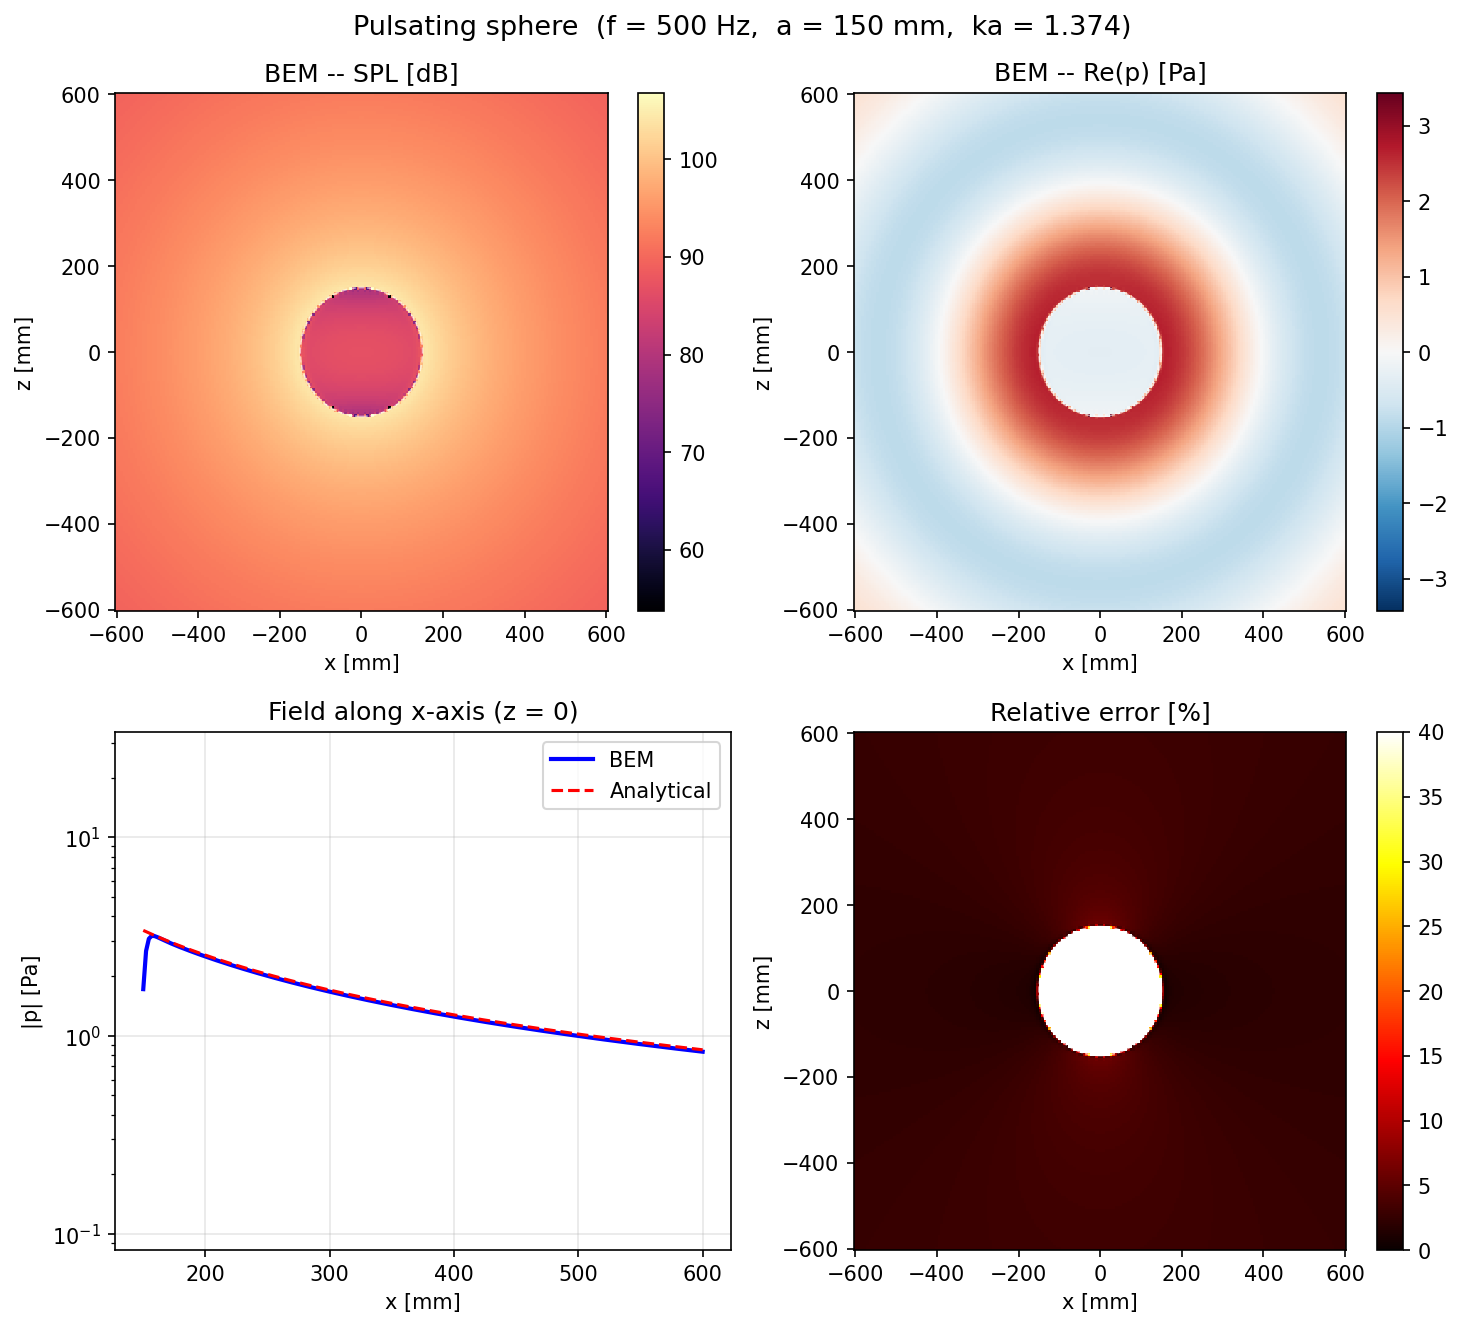
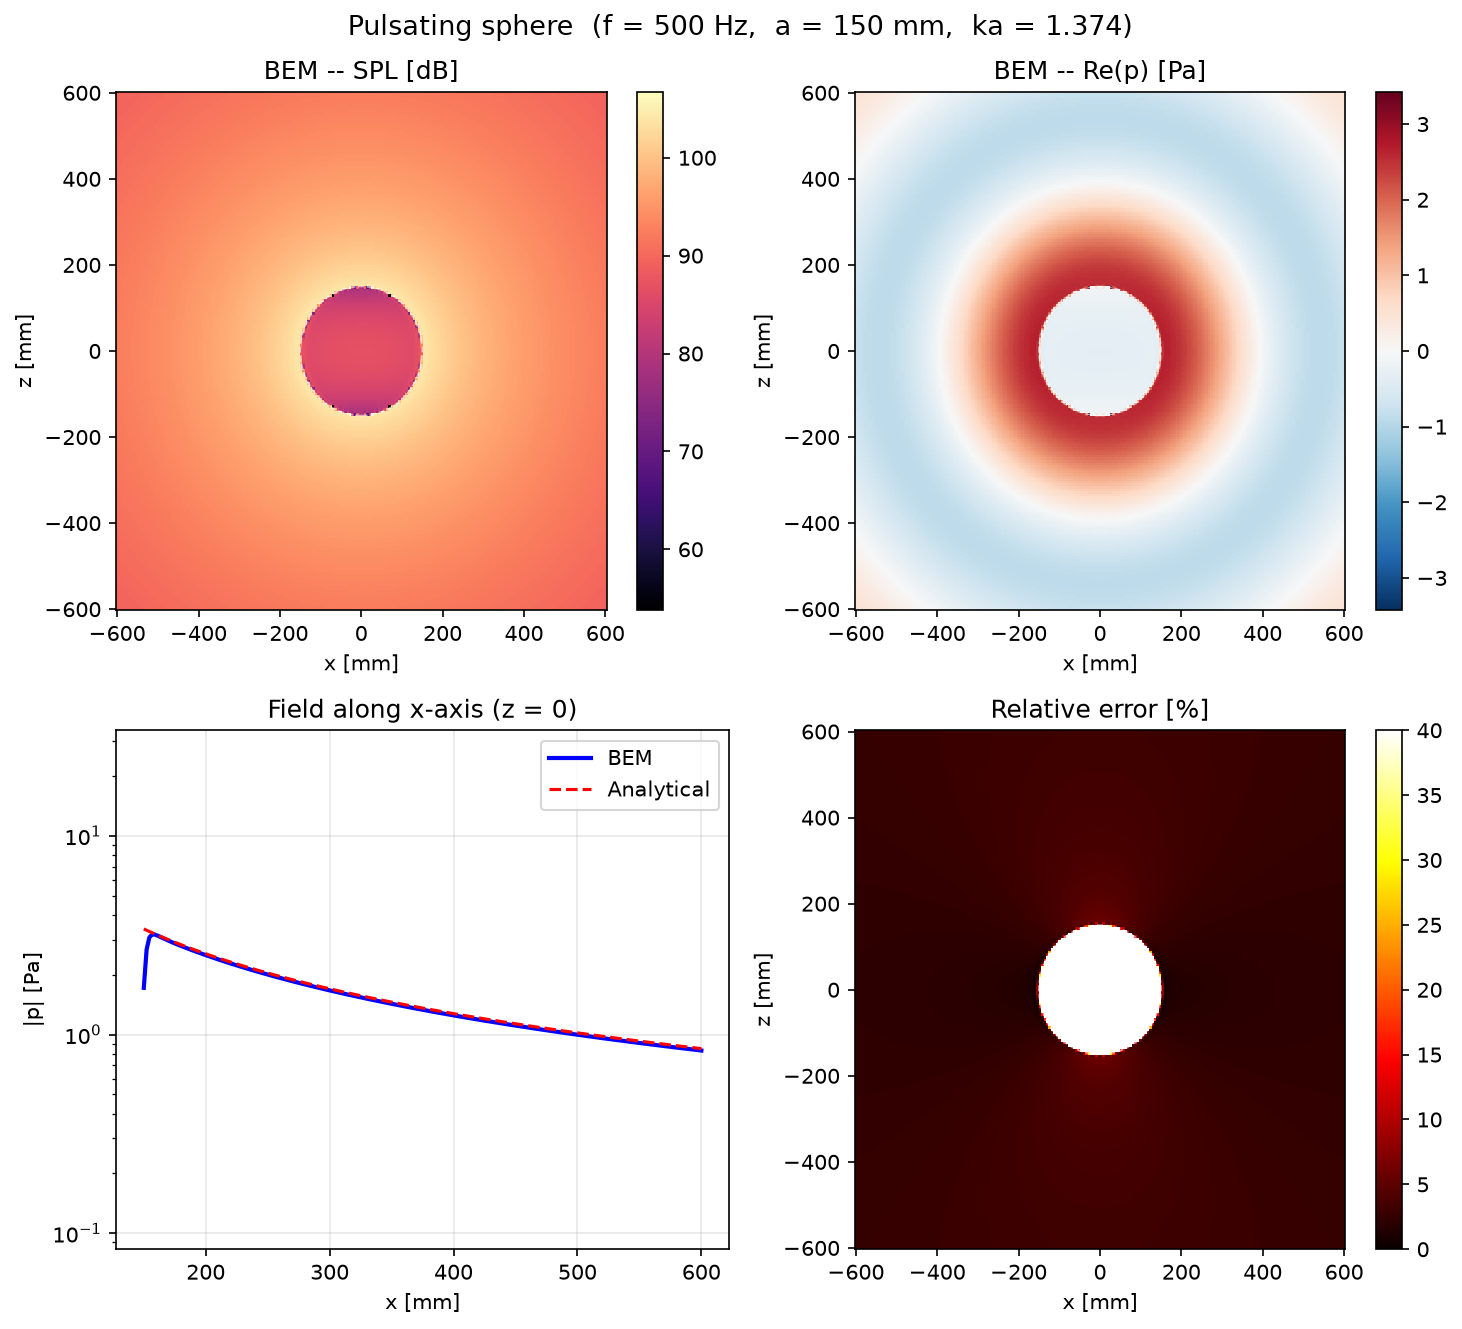
Document, test, and polish acoustic_external for publishing
- README: document AcousticExternalProblem (external BEM) with a usage example
- docs: fix the previously-broken Sphinx build — include README via MyST,
  populate the autodoc API page, add napoleon for the ported docstrings,
  create _static/; remove the dead README.rst include
- example: run headless (Agg + off_screen screenshot), batch field evaluation
  to bound peak memory, drop the sys.path hack
- tests: add a quantitative pulsating-sphere regression test, clean up
  test_basic, run CI on Python 3.10-3.13
- pyproject: matplotlib as an optional extra (dev/examples), add py3.11-3.13
  classifiers
- remove the template-stub __main__.py

diff --git a/tests/test_acoustic_external_problem.py b/tests/test_acoustic_external_problem.py
@@ -72,6 +72,42 @@ def test_pulsating_sphere_surface_pressure():
     )
 
 
+def test_pulsating_sphere_quantitative_accuracy():
+    """
+    Regression test: on a moderately refined mesh the BEM field pressure must
+    match the analytical pulsating-sphere solution to within a few percent.
+    Guards the physics (the qualitative test above only checks decay).
+    """
+    rho0, c0, freq, v0, a = 1.225, 343.0, 500.0, 0.01, 0.15
+    k = 2 * np.pi * freq / c0
+
+    sphere = pv.Sphere(radius=a, theta_resolution=16, phi_resolution=16)
+    sphere.compute_normals(
+        point_normals=True, cell_normals=False,
+        consistent_normals=True, auto_orient_normals=True, inplace=True,
+    )
+    vn = v0 * np.ones(sphere.n_points, dtype=np.float64)
+
+    prob = AcousticExternalProblem(
+        mesh=sphere, rho=rho0, c0=c0,
+        boundary_condition=vn, boundary_condition_type="Neumann",
+        frequency=freq, assembler_type="continuous", use_burton_miller=False,
+    )
+    prob.solve_problem(verbose=False)
+
+    # Analytical surface and radiated field pressure at r = 0.5 m
+    p_surf_ana = pulsating_sphere_surface_pressure(a, k, v0, rho0, c0)
+    r = 0.5
+    p_field_ana = p_surf_ana * (a / r) * np.exp(-1j * k * (r - a))
+
+    p_field_bem = prob.evaluate_field(
+        np.array([[r, 0.0, 0.0]]), result_type="p", verbose=False
+    )[0]
+
+    rel_err = abs(abs(p_field_bem) - abs(p_field_ana)) / abs(p_field_ana)
+    assert rel_err < 0.10, f"Field pressure rel. error too high: {rel_err:.1%}"
+
+
 def test_set_frequency():
     """Changing frequency should reset the assembled-matrices flag."""
     sphere = _small_sphere(0.15)

diff --git a/examples/acoustic_external_example.py b/examples/acoustic_external_example.py
@@ -14,16 +14,29 @@ and the field pressure at distance r >= a is:
     p(r) = p_surface * (a / r) * exp(-j * k * (r - a))
 """
 
-import sys
 import os
 import numpy as np
 import pyvista as pv
+import matplotlib
+matplotlib.use("Agg")  # headless: write figures to file, no display needed
 import matplotlib.pyplot as plt
 
-# Ensure the package can be found
-sys.path.insert(0, os.path.join(os.path.dirname(__file__), ".."))
-
 from sdypy.model.acoustic_external import AcousticExternalProblem
+
+
+def evaluate_field_batched(prob, pts, result_type="p", chunk=4000):
+    """Evaluate the field in chunks to keep peak memory bounded.
+
+    ``evaluate_field`` builds a dense (n_points x n_dof x n_quad) intermediate,
+    so a large grid (e.g. 200x200) can need many GB at once. Splitting the
+    evaluation points into chunks caps the peak memory at the chunk size.
+    """
+    out = np.empty(pts.shape[0], dtype=complex)
+    for i in range(0, pts.shape[0], chunk):
+        out[i:i + chunk] = prob.evaluate_field(
+            pts[i:i + chunk], result_type=result_type, verbose=False
+        )
+    return out
 
 
 # =============================================================================
@@ -117,7 +130,7 @@ YY = np.zeros_like(XX)
 field_pts = np.column_stack([XX.ravel(), YY.ravel(), ZZ.ravel()])
 
 print(f"\nEvaluating pressure field on {field_pts.shape[0]} points ...")
-p_field = prob.evaluate_field(field_pts, result_type="p", verbose=True)
+p_field = evaluate_field_batched(prob, field_pts, result_type="p")
 p_field = p_field.reshape(XX.shape)
 
 # Analytical field pressure (exclude points inside sphere)
@@ -197,18 +210,20 @@ out_dir = os.path.dirname(__file__)
 save_path = os.path.join(out_dir, "pulsating_sphere_test_B-M.png")
 plt.savefig(save_path, dpi=150, bbox_inches="tight")
 print(f"\nFigure saved to: {save_path}")
-plt.show()
 
-# Also show the mesh and BEM boundary pressure with PyVista
-print("\nDisplaying 3-D mesh with boundary pressure ...")
+# Also render the mesh and BEM boundary pressure with PyVista (headless screenshot)
+print("\nRendering 3-D mesh with boundary pressure ...")
 sphere_mesh = sphere.copy()
 sphere_mesh["p_bem"] = np.abs(p_bem)
 
 pv.set_plot_theme("document")
-pl = pv.Plotter()
+pl = pv.Plotter(off_screen=True)
 pl.add_mesh(sphere_mesh, scalars="p_bem", cmap="magma",
             show_edges=True, edge_color="gray", smooth_shading=True)
 pl.add_title(f"Boundary pressure |p|  (f = {FREQ:.0f} Hz)", font_size=12)
-pl.show()
+mesh_path = os.path.join(out_dir, "pulsating_sphere_boundary_pressure.png")
+pl.screenshot(mesh_path)
+pl.close()
+print(f"3-D render saved to: {mesh_path}")
 
 print("\nDone.")

diff --git a/tests/test_basic.py b/tests/test_basic.py
@@ -1,10 +1,6 @@
-import numpy as np
-import sys, os
-
-my_path = os.path.dirname(os.path.abspath(__file__))
-sys.path.insert(0, my_path + '/../')
-
 import sdypy.model
 
-def test_basic():
-    assert 1 == 1
+
+def test_namespace_import():
+    """The package imports and exposes the public acoustic entry point."""
+    assert hasattr(sdypy.model, "AcousticExternalProblem")

diff --git a/sdypy/model/acoustic_external/geometry.py b/sdypy/model/acoustic_external/geometry.py
@@ -9,6 +9,7 @@ class Body:
                  frequency: float | None = None,):
         """
         Initialize the Body class for acoustic boundary element method.
+
         Args:
             mesh_nodes (np.ndarray): Array of shape (N, 3) representing the
                 coordinates of the mesh nodes.
@@ -196,8 +197,10 @@ class Field:
                  c0: float = 343.0,):
         """
         Initialize the Field class for acoustic boundary element method.
+
         Initializes:
-            - field_points: Array of shape (P, 3) representing the field points.
+
+        - field_points: Array of shape (P, 3) representing the field points.
 
         Args:
             field_extent (np.ndarray): Array of shape (3, 2) defining the min
@@ -246,15 +249,16 @@ def box_mesh(center: np.ndarray,
 
     """
     Create a box mesh centered at 'center' with given 'size'.
+
     Args:
         center (np.ndarray): Center of the box (3,).
         size (np.ndarray): Size of the box along each axis (3,).
         divisions (int, optional): Number of subdivisions along each edge.
             each edge. If an array, should be of shape (3,) for x, y, z axes.
+
     Returns:
         v (np.ndarray): Array of shape (N, 3) with vertex coordinates.
-        elements (np.ndarray): Array of shape (M, 3) with triangular element
-            connectivity.
+        elements (np.ndarray): Array of shape (M, 3) with triangle connectivity.
     """
 
     c = np.asarray(center).reshape(3)

diff --git a/sdypy/model/acoustic_external/solve.py b/sdypy/model/acoustic_external/solve.py
@@ -162,18 +162,21 @@ class BEMSolver:
         This method forms a linear combination of the standard boundary equation
         and its normal-derivative equation to remove spurious resonances.
 
-        The combined equation is taken (for exterior problems) in the form:
+        The combined equation is taken (for exterior problems) in the form::
+
             (D - C) φ + α N φ = S q + α (C + K') q,
             [(D - C) + α N] φ = [S + α (C + K')] q
 
         where C is the double-layer jump term (typically 0.5·I on closed smooth
-        surfaces).
+        surfaces)::
+
             S  : single layer (G)
             D  : double layer (∂G/∂n_y)
             K' : adjoint double layer (∂G/∂n_x)
             N  : hypersingular (∂²G/∂n_x∂n_y)
 
         Given boundary data, the method solves for the complementary unknown:
+
         - bc_type="Neumann": given q = ∂φ/∂n, solve for φ on Γ
         - bc_type="Dirichlet": given φ on Γ, solve for q = ∂φ/∂n on Γ
 

diff --git a/docs/source/conf.py b/docs/source/conf.py
@@ -41,6 +41,7 @@ release = '0.1.4'
 # ones.
 extensions = [
     'sphinx.ext.autodoc',
+    'sphinx.ext.napoleon',  # parse NumPy- and Google-style docstrings
     'sphinx.ext.mathjax',
     'sphinx.ext.ifconfig',
     'sphinx.ext.viewcode',
@@ -67,7 +68,7 @@ templates_path = ['_templates']
 # The suffix(es) of source filenames.
 # You can specify multiple suffix as a list of string:
 #
-source_suffix = {'.rst': 'restructuredtext', '.md': 'restructuredtext'}
+source_suffix = {'.rst': 'restructuredtext', '.md': 'markdown'}
 
 # The master toctree document.
 master_doc = 'index'

diff --git a/sdypy/model/acoustic_external/mesh.py b/sdypy/model/acoustic_external/mesh.py
@@ -10,12 +10,14 @@ class Mesh:
         """
         Initialize the mesh by merging multiple bodies and precomputing
         geometric properties.
+
         Args:
             source_object (Body): The main body with defined boundary
                 conditions and frequency.
             peripheral_objects (list[Body] | None): Additional bodies to be
                 merged into the mesh.
             field (Field): Field object defining medium properties.
+
         Raises:
             ValueError: If source_object does not have a defined frequency or
                 boundary conditions.

diff --git a/README.md b/README.md
@@ -8,6 +8,12 @@ The package currently contains the following finite elements:
 - `shell`: MITC4 shell elements.
 - `tet`: Quadratic (10 node) tetrahedral elements.
 
+It also provides an exterior acoustics solver:
+
+- `acoustic_external`: exterior acoustic radiation/scattering with a collocation
+  boundary element method (BEM), including an optional Burton–Miller formulation
+  to suppress spurious internal resonances.
+
 **Note**: The package is still under development and may not be fully functional.
 
 ## Beam elements
@@ -42,6 +48,45 @@ tet_obj = sd.model.Tetrahedron(...)
 M = tet_obj.M
 K = tet_obj.K
 ```
+
+## Acoustic radiation (external BEM)
+
+Solve for the acoustic field radiated by a vibrating surface. The surface is a
+triangular mesh (e.g. a `pyvista.PolyData`) with coordinates in **metres**. Define the boundary condition (either Dirichlet or Neumann). With a Neumann boundary condition you prescribe the normal velocity at each node; the solver
+returns the velocity potential `φ` on the boundary, from which the pressure
+`p = jωρφ` is recovered anywhere in the exterior field.
+
+```python
+import numpy as np
+import pyvista as pv
+import sdypy as sd
+
+# Vibrating surface (triangle mesh, coordinates in metres)
+sphere = pv.Sphere(radius=0.15, theta_resolution=30, phi_resolution=30)
+vn = 0.01 * np.ones(sphere.n_points)        # normal velocity [m/s]
+
+prob = sd.model.AcousticExternalProblem(
+    mesh=sphere,
+    rho=1.225, c0=343.0,                    # air: density [kg/m3], sound speed [m/s]
+    boundary_condition=vn,                  # (n_points,) scalar, or (n_points, 3) vector
+    boundary_condition_type="Neumann",      # "Neumann" (velocity) | "Dirichlet" (pressure)
+    frequency=500.0,                        # [Hz]
+    use_burton_miller=False,                # combined (Burton–Miller) formulation, optional
+)
+
+phi = prob.solve_problem()                  # velocity potential on the boundary
+
+# Radiated pressure on a set of field points of shape (N, 3) [m]
+pts = np.array([[0.3, 0.0, 0.0], [0.0, 0.0, 0.5]])
+p = prob.evaluate_field(pts, result_type="p")   # complex pressure [Pa]
+```
+
+Use `set_frequency()` / `set_boundary_condition()` to reuse the assembled model across
+a frequency sweep without rebuilding the mesh. All quantities are in SI units and the
+complex time convention is `e^{jωt}`. A complete, validated example (pulsating sphere vs.
+the analytical solution) is in [`examples/acoustic_external_example.py`](https://github.com/sdypy/sdypy-model/blob/master/examples/acoustic_external_example.py).
+
+<!-- TODO: embed BEM validation animations (mode-shape / monopole gifs) here -->
 
 # Disclaimer
 

diff --git a/docs/source/code.rst b/docs/source/code.rst
@@ -1,3 +1,30 @@
 Code documentation
 ==================
 
+Acoustic radiation (external BEM)
+---------------------------------
+
+The high-level driver for exterior acoustic radiation/scattering problems.
+
+.. autoclass:: sdypy.model.AcousticExternalProblem
+   :members:
+
+Lower-level building blocks
+~~~~~~~~~~~~~~~~~~~~~~~~~~~~~
+
+.. autoclass:: sdypy.model.acoustic_external.BEMSolver
+   :members:
+
+.. autoclass:: sdypy.model.acoustic_external.Mesh
+   :members:
+
+.. autoclass:: sdypy.model.acoustic_external.CollocationAssembler
+   :members:
+
+.. autoclass:: sdypy.model.acoustic_external.Body
+   :members:
+
+.. autoclass:: sdypy.model.acoustic_external.Field
+   :members:
+
+.. autofunction:: sdypy.model.acoustic_external.box_mesh

diff --git a/docs/source/getting_started.md b/docs/source/getting_started.md
@@ -1,0 +1,6 @@
+# Getting started
+
+The project README is included below.
+
+:::{include} ../../README.md
+:::